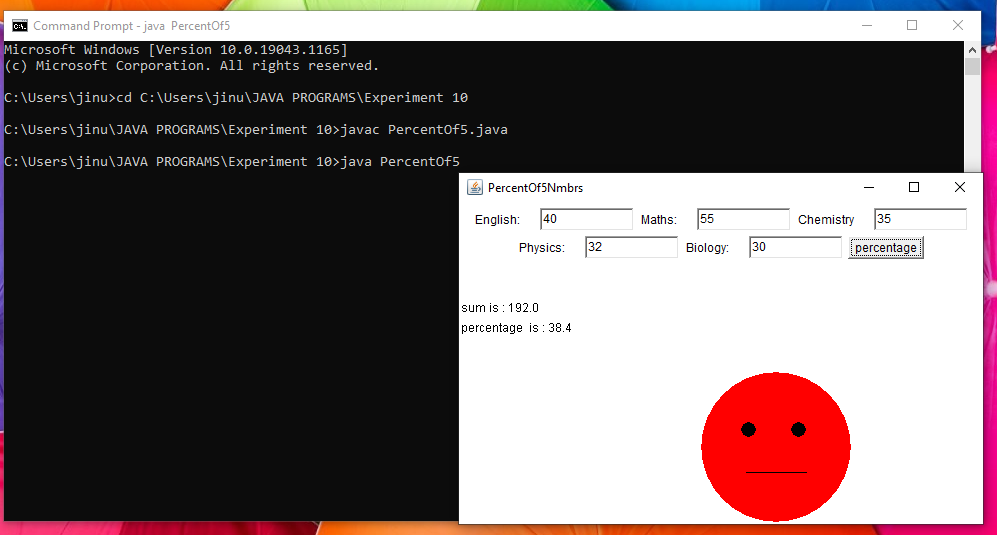
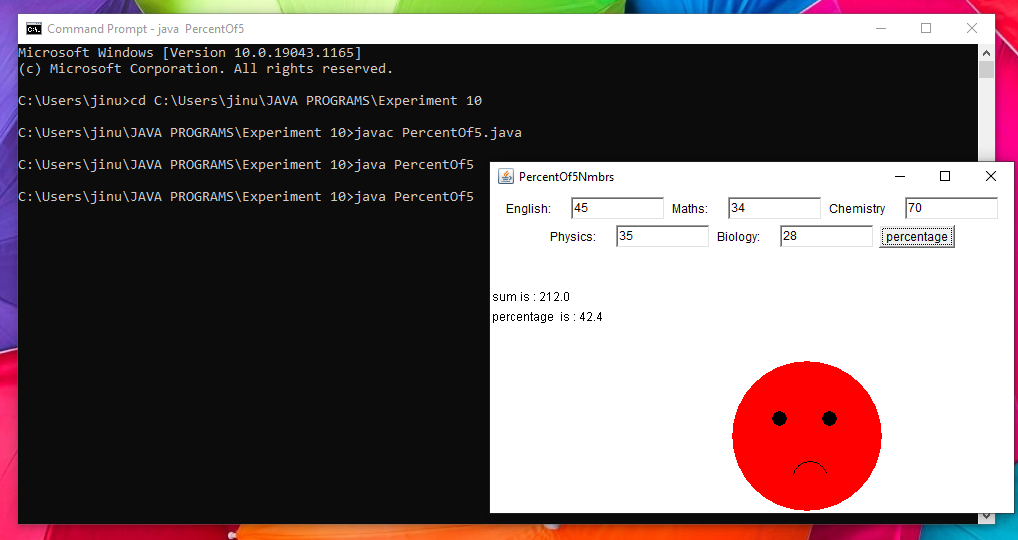
fnshd

Changed region(s): [[0.0, 0.0, 1.0, 1.0], [0.7773, 0.8374, 0.8084, 0.8673]]

diff --git a/EX 10/marks/PercentOf5.java b/EX 10/marks/PercentOf5.java
@@ -98,8 +98,8 @@ public void actionPerformed(ActionEvent ae) {
         		g.fillOval(290, 250, 15, 15);
         		g.fillOval(340, 250, 15, 15);
   
-        		//g.setColor(c1);	
-		g.drawLine(295, 300, 355, 300);
+        		// Arc for the sad
+        		g.drawArc(310, 300, 35, 35, 20, 150);
 							
 		}
 		else									//happy face for percentage >50									
@@ -116,7 +116,7 @@ public void actionPerformed(ActionEvent ae) {
         		
         		
 			// Arc for the smile
-        		g.drawArc(305, 315, 40, 10, 170, 170);
+        		g.drawArc(305, 300, 35, 15, 180, 180);
 		
 		}
 		
